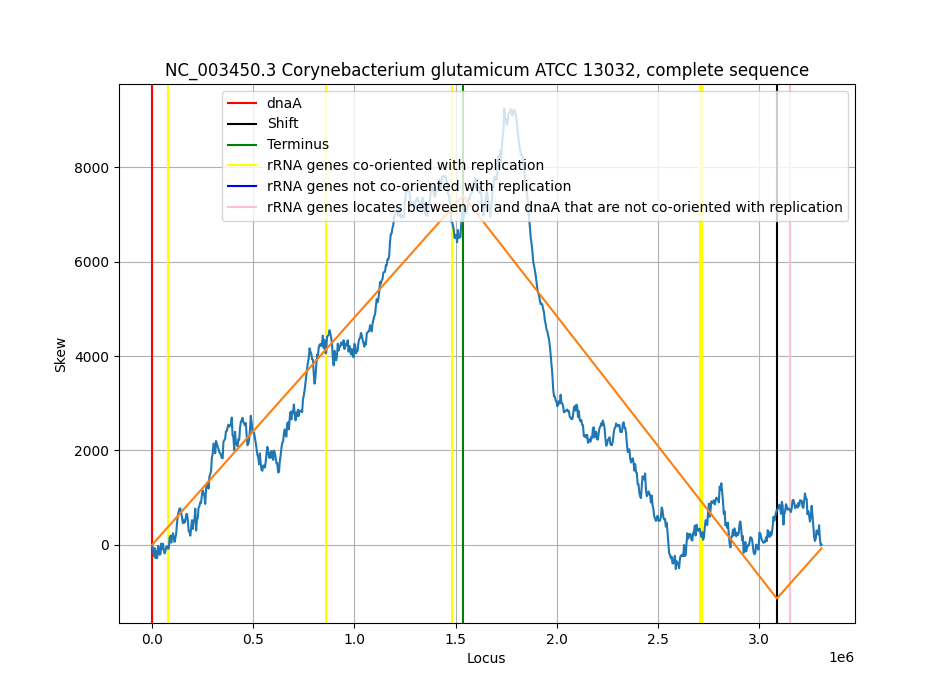
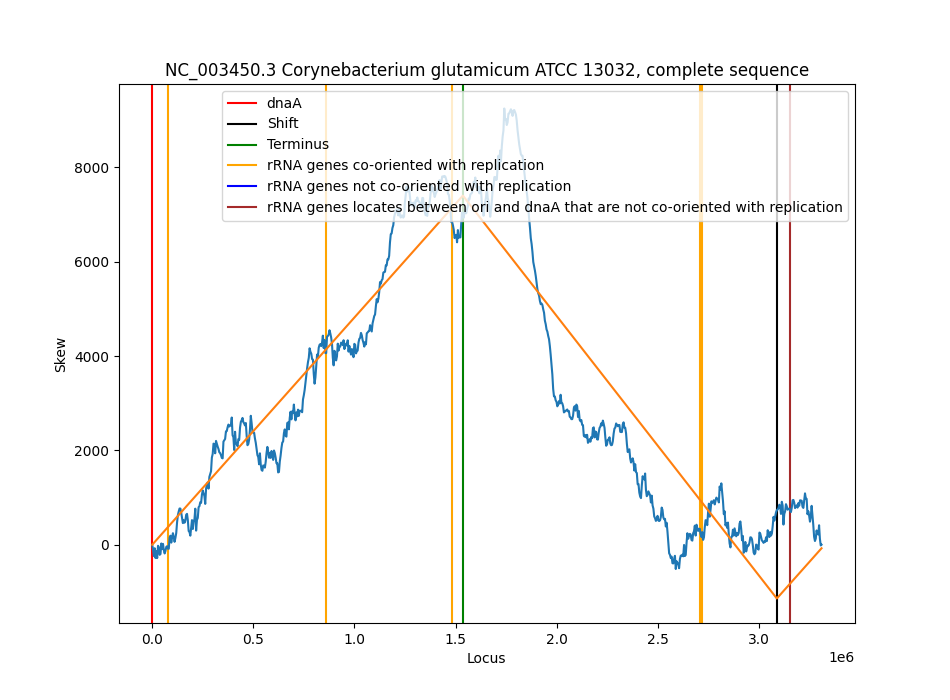
tested for 800 records

diff --git a/plots.py b/plots.py
@@ -14,6 +14,7 @@ from combined_scripts import get_rRNA_intervals as rRNA_interval
 from random import shuffle
 import matplotlib.pyplot as plt
 import matplotlib.lines as mlines
+from collections import Counter
 plt.rcParams['figure.figsize'] = [9.5, 7]
 
 # Read csv output files for chromosomes and rRNAs
@@ -23,6 +24,7 @@ df_rRNA = pd.read_csv("C:/Ashwini/Applied_bioinformatics/rRNA.csv")
 #df_chromo = pd.DataFrame(chromosomes)
 #df_chromo.to_csv("C:/Ashwini/Applied_bioinformatics/chromosome.csv")
 df_chromo = pd.read_csv("C:/Ashwini/Applied_bioinformatics/chromosomes.csv")
+num_records = len(df_chromo)
 
 #Declaring lists used
 accession=[]
@@ -33,13 +35,12 @@ stop_compliment = []
 unique_acc_rrna = []
 gcfits_accession = []
 new_csv_files = []
-#temp_rrna =[]
-#temp_num = []
-#temp_non_rrna =[]
-#temp_non_num = []
 betn_ori_dnaA = []
 unique_orient = []
 taxa_non_orient = []
+list_not_orient = []
+list_betn_ori_dnaA = []
+common_list = []
 
 # Creating new dataframe
 for file in range(len(df_rRNA)):
@@ -74,21 +75,32 @@ for ind in df_orient.index:
     unique_orient.append(df_orient["name"][ind])
 
 unique_orient = list(dict.fromkeys(unique_orient))
-print(len(unique_orient))
-print("accession numbers of rrna that is not co-oriented")
-print(unique_orient)
 
 #Fetching unique accession numbers from new_df dataframe 
 unique_acc_rrna = new_df["name"].unique()
 #unique_acc_rrna = new_df["name"].unique()
 #print("unique acc numbers from rrna output file")
-print(len(unique_acc_rrna))
+#print(len(unique_acc_rrna))
 
 #Creating path from csv_path
 csv_path = "C:/Ashwini/Applied_bioinformatics/FilteredDataFile.csv"
 file_path = csv_path.rstrip("FilteredDataFile.csv")
 gcfit_path = file_path + "gcfits\\"
 #print(gcfit_path)
+
+df_csv = pd.read_csv(csv_path)
+count_realm2_proteo = 0
+for ind in df_csv.index:   
+     if df_csv["realm2"][ind] == "Proteobacteria":
+        count_realm2_proteo += 1
+print("count realm2 proteo")
+print(count_realm2_proteo)
+count_realm2_Terra = 0
+for ind in df_csv.index:   
+     if df_csv["realm2"][ind] == "Terrabacteria group":
+        count_realm2_Terra += 1
+print("count realm2 terra")
+print(count_realm2_Terra)
 
 # Get CSV files list from a gcfit folder
 csv_files = glob.glob(gcfit_path + "*.csv")
@@ -119,7 +131,7 @@ for acc_num in new_csv_files:
     us=new_df[new_df.name==acc_num]
     chromo = df_chromo[df_chromo.name==acc_num]
     #Fetching taxanomical details (realm2-phylum, realm3-class)
-    taxon = chromo["realm2"].item()
+    taxon = chromo["realm5"].item()
     taxa_non_orient.append(taxon)
     #Creating new dataframe for the rrnas for the accession number
     df_rrna_plot = new_df.loc[new_df["name"] == acc_num,["name","between_dnaA_ori", "co-orient", "rRNAPos"]]
@@ -129,17 +141,18 @@ for acc_num in new_csv_files:
     for ind in df_rrna_plot.index:
         if df_rrna_plot["co-orient"][ind] == True:
             mark_rrna = df_rrna_plot["rRNAPos"][ind]
-            #temp_rrna.append(mark_rrna)
-            #num_rrna = df_rrna_plot.loc[row,"rRNA"]
-            #temp_num.append(num_rrna)
-            plt.axvline(int(mark_rrna), ls='-', color='yellow')
+            plt.axvline(int(mark_rrna), ls='-', color='orange')
         else:
             if df_rrna_plot["between_dnaA_ori"][ind] == False:
+                temp = df_rrna_plot["name"][ind]
+                list_not_orient.append(temp)
                 non_overlap_rrna = df_rrna_plot["rRNAPos"][ind]
                 plt.axvline(int(non_overlap_rrna), ls='-', color='blue')
             else:
+                temp_1 = df_rrna_plot["name"][ind]
+                list_betn_ori_dnaA.append(temp_1)
                 non_overlap_rrna = df_rrna_plot["rRNAPos"][ind]
-                plt.axvline(int(non_overlap_rrna), ls='-', color='pink')
+                plt.axvline(int(non_overlap_rrna), ls='-', color='brown')
     
     # for marking shift
     #print(chromo)
@@ -163,9 +176,9 @@ for acc_num in new_csv_files:
     dnaA = mlines.Line2D([], [], color='red', label='dnaA')
     shift = mlines.Line2D([], [], color='black', label='Shift')
     ter = mlines.Line2D([], [], color='green', label='Terminus')
-    pos_rrna = mlines.Line2D([], [], color='yellow', label='rRNA genes co-oriented with replication')
+    pos_rrna = mlines.Line2D([], [], color='orange', label='rRNA genes co-oriented with replication')
     pos_non_rrna = mlines.Line2D([], [], color='blue', label='rRNA genes not co-oriented with replication')
-    pos_non_rrna_betn_ori = mlines.Line2D([], [], color='pink', label='rRNA genes locates between ori and dnaA that are not co-oriented with replication')
+    pos_non_rrna_betn_ori = mlines.Line2D([], [], color='brown', label='rRNA genes locates between ori and dnaA that are not co-oriented with replication')
     plt.legend(handles=[dnaA, shift, ter, pos_rrna, pos_non_rrna, pos_non_rrna_betn_ori])
 
     # labelling x and y axis
@@ -177,31 +190,54 @@ for acc_num in new_csv_files:
     
     #fixing title
     plt.title(str(chromo["fullname"].item()))
-    plt.grid()
+    #plt.grid()
     plt.savefig("figures\\"+ str(acc_num) + ".png")
     plt.savefig("D:\\figures\\"+ str(acc_num) + ".png")
     plt.clf()
     #plt.show()
 
-print(taxa_non_orient)
+"""# compare lists
+for i in list_not_orient:
+    for j in list_betn_ori_dnaA:
+        if i == j:
+            common_list.append(i)"""
 
-"""df_skewdb = pd.read_csv(csv_path)
-taxa = df_skewdb["realm2"].unique()
-print(taxa)
+list_not_orient = list(dict.fromkeys(list_not_orient))
+list_betn_ori_dnaA = list(dict.fromkeys(list_betn_ori_dnaA))
+
+# calculating part, where there is no rrna that locates betn ori and dnaA
+no_ori_dnaA = len(list_not_orient) + len(common_list)   
+#Calculating the percentage
+percent = (100 * len(list_not_orient))/num_records
+            
+# printing results
+print("total number of chromosomes")
+print(num_records)
+print("Number of accession numbers that is not co-oriented")
+print(len(unique_orient))
+#print(unique_orient)
+print("list of not co-oriented rrna")
+#print(list_not_orient)
+print("number of chromosomes where atleast one rrna is not co-orinted")
+print(len(list_not_orient))
+print("list of not co-oriented rrna that locates betn ori and dnaA")
+#print(list_betn_ori_dnaA)
+print("number of chromosomes where atleast one rrna is not co-oriented becuase it locates betn ori and dnaA")
+print(len(list_betn_ori_dnaA))
+
+"""print("chromosomes where we have both rrna which are not cooriented and locates betn ori and dnaA")
+print(len(common_list))
+print("number of chromosomes(not-cooriented) where there are no rrnas locates betn ori and dnaA")
+print(no_ori_dnaA)"""
+print("percentage of chromosomes which are not co-oriented")
+print(percent)
+
+#print(taxa_non_orient)
+taxa_dict = Counter(taxa_non_orient)
+print(taxa_dict)
+plt.bar(list(taxa_dict.keys()), taxa_dict.values(), color='g')
+plt.show()
 
 
-#plotting histogram
-for acc_num in new_csv_files:
-    print(acc_num)
-    chromo_histo = df_chromo[df_chromo.name==acc_num]
-    taxa_1 = chromo_histo["realm4"].unique()
-    print(taxa_1)
-print(taxa_1)
-x_pos = chromo_histo["realm4"].unique()
-plt.hist(taxa_1, bins=50, density=True)
-plt.grid()
-plt.title("Histogram")
-# Show graph
-plt.show() """
 
 
